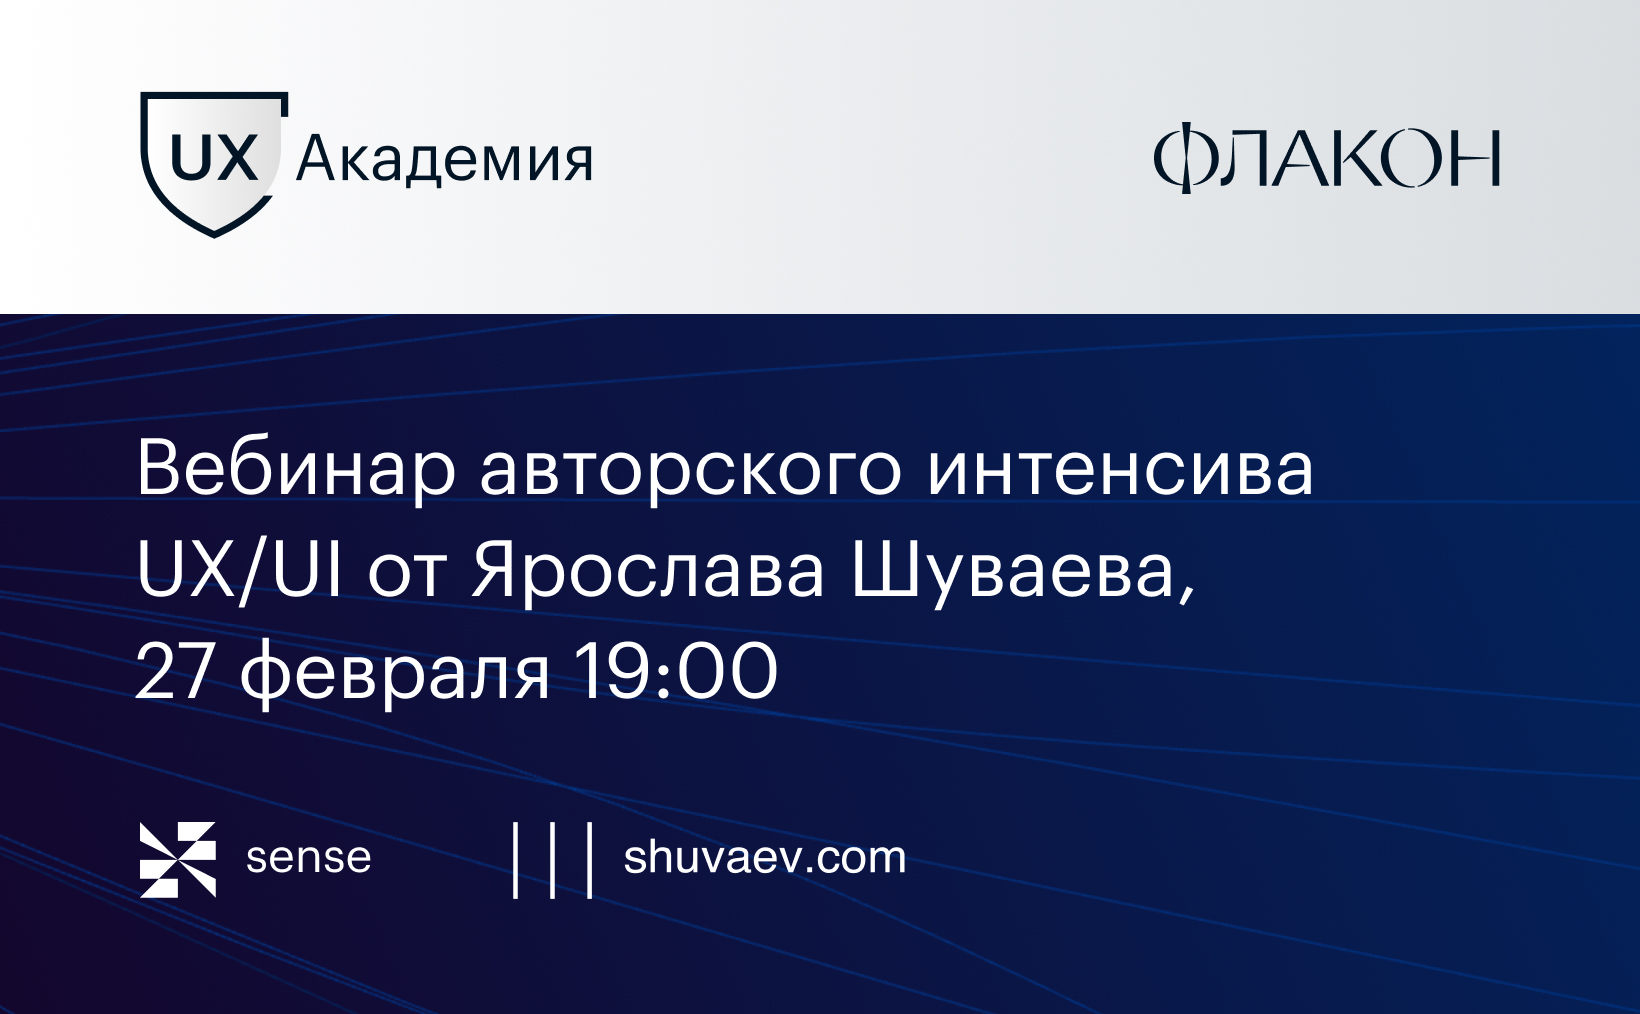
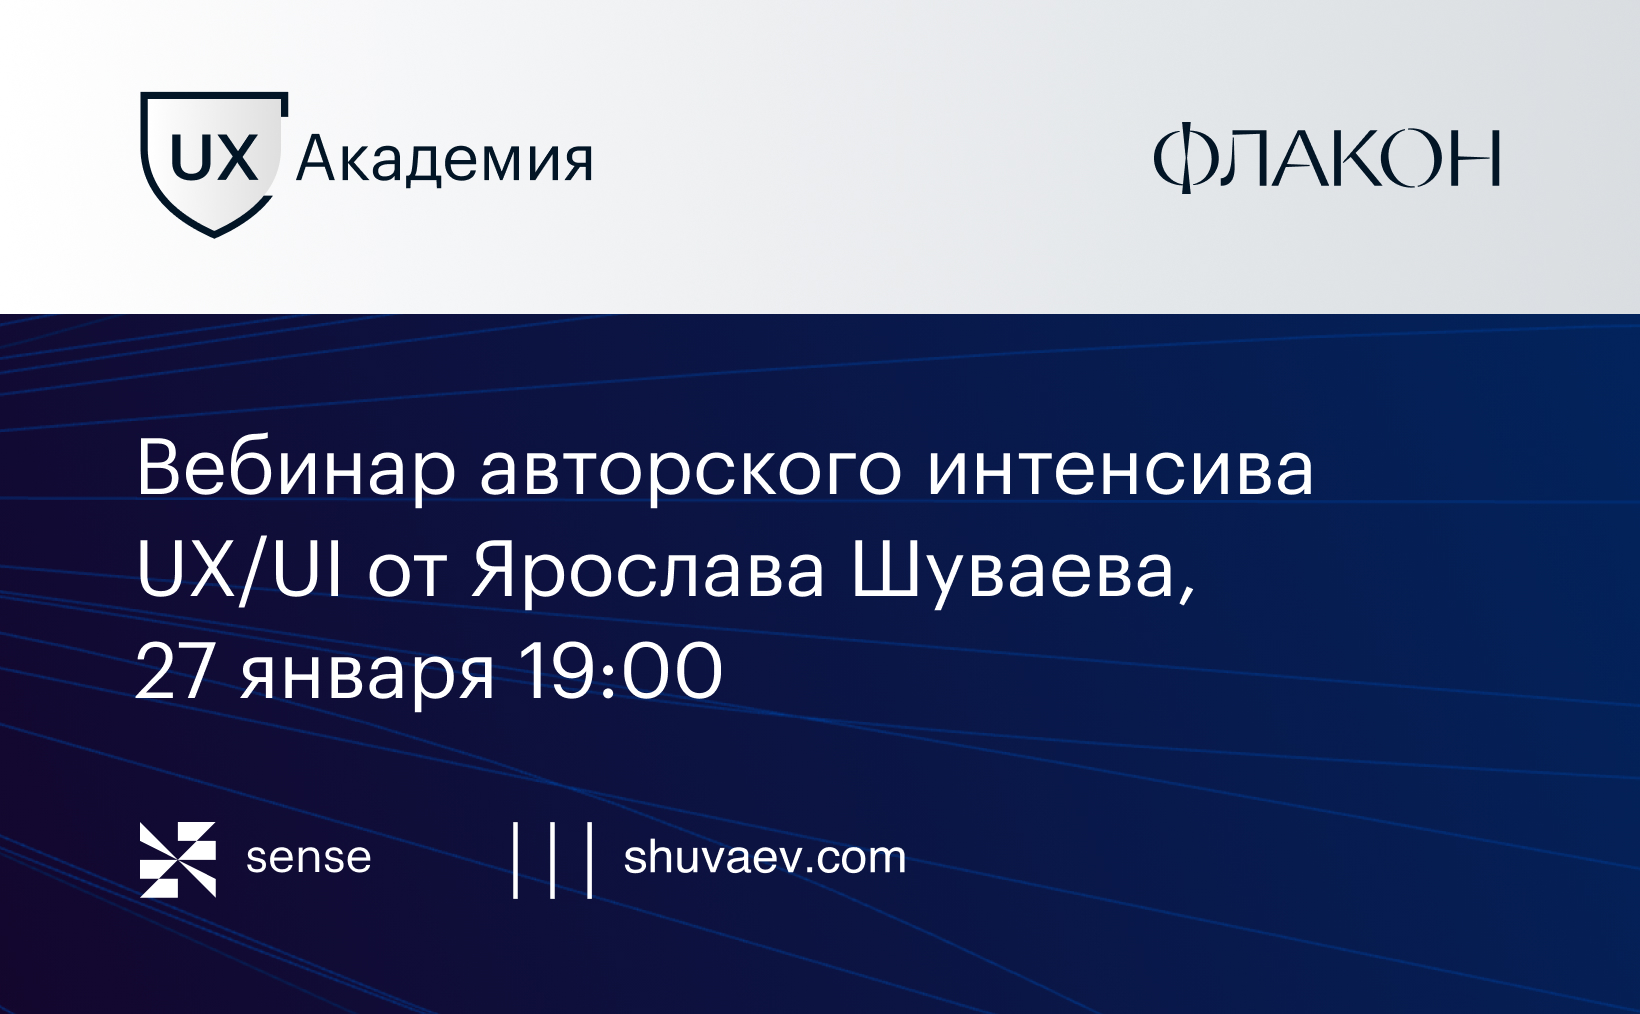
webinar fixed * landing

Changed region(s): [[0.1244, 0.6114, 0.4976, 0.7032]]

diff --git a/webinar.html b/webinar.html
@@ -58,7 +58,7 @@
         <section class="intro">
             <div class="container">
                 <div class="intro__content">
-                    <h1>Вебинар Разбор кейса. Составляем чек-лист по процессу. 27 января 2021 в 19:00</h1>
+                    <h1>Вебинар Разбор кейса. Составляем чек-лист по процессу, <br>27 января 2021 в 19:00</h1>
                     <p><a href="#partners">Интенсив UX/UI по продуктовому дизайну</a><br>с кейсами от Mail.ru, Альфа-Банк, Флакон, Ак Барс Банк и др.</p>
                     <div class="contact-row">
                         <a href="#subscribe" class="btn">
